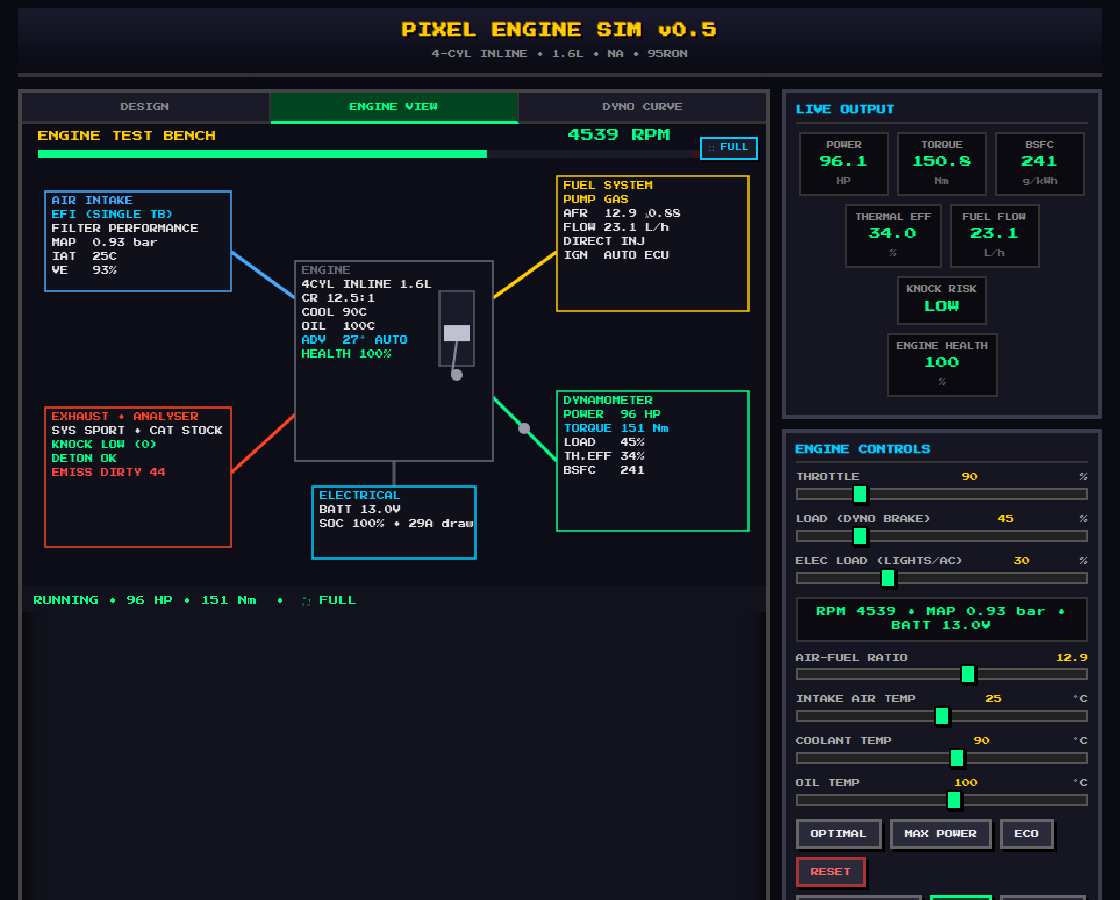
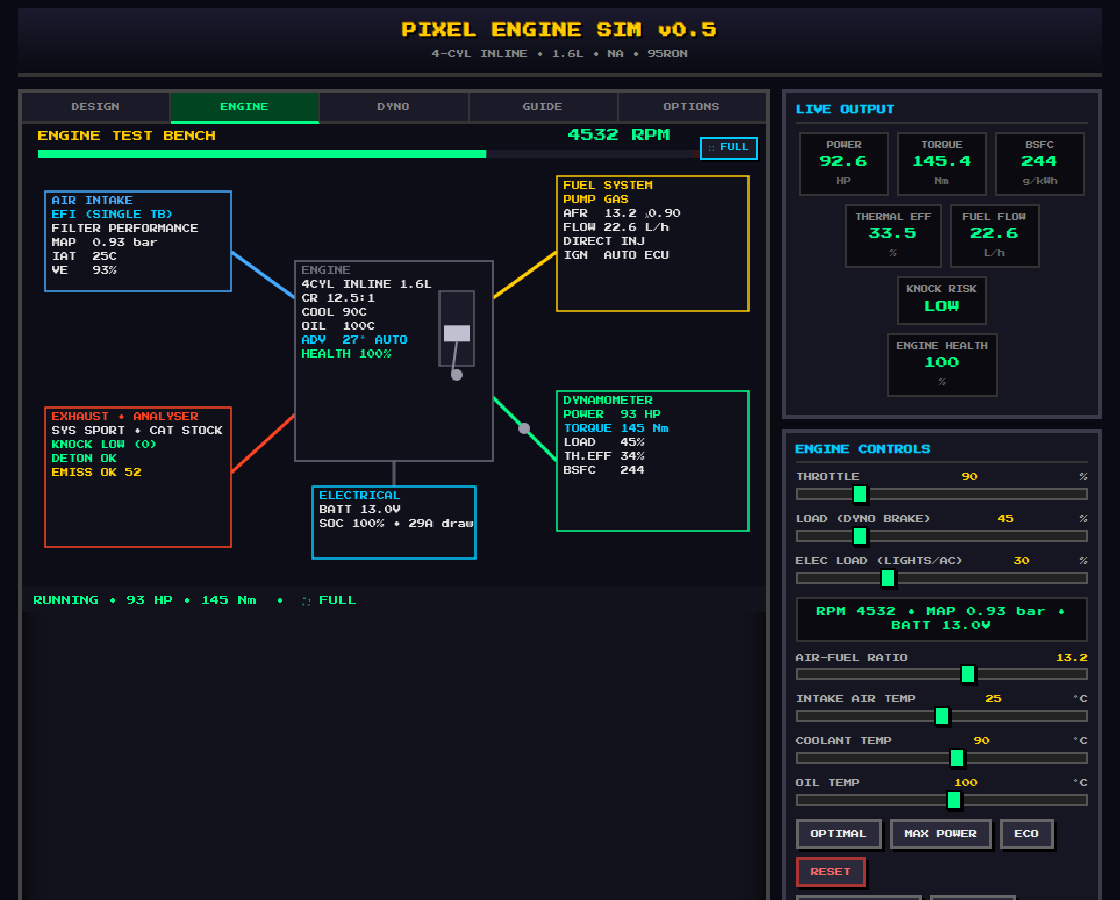
UI round: intercooler sizes, in-app Guide & Options tabs, tab-aware side panel (#18)
Intercooler sizing:
- Replace the intercooler yes/no toggle with a core-size dropdown
  (none / small / large). A bigger core removes more charge heat (denser
  air, more knock margin, more power) but its extra volume adds a little
  turbo spool lag. Legacy boolean builds migrate (true->large, false->none).

UI restructure:
- Add a GUIDE tab: an in-app manual explaining the loop, driving controls,
  every on-screen metric and each design subsystem. Kept in-app so the
  offline PWA stays self-contained (no external wiki).
- Add an OPTIONS tab for simulator preferences: Sound and Wear toggles
  (moved out of the crowded Engine Controls, now with clear ON/OFF labels)
  plus a Language-pack selector placeholder for future localisation.
- Make the right column tab-aware: the runtime Engine Controls show only
  while driving / on the dyno; the DESIGN tab shows a Vehicle Designer
  "coming soon" placeholder in that space (reserving room for feature A).
- Declutter the remaining Engine Controls button rows and tighten the
  tab bar to fit five tabs.

Tests (Playwright, zero console errors), README and screenshots updated.

Claude-Session: https://claude.ai/code/session_01AEJgmuJne9ALT6jCcxozCn

diff --git a/index.html b/index.html
@@ -79,6 +79,20 @@ footer{text-align:center;margin-top:16px;padding:8px;font-size:7px;color:#555;bo
 .build-row{margin-top:12px;display:flex;gap:8px;flex-wrap:wrap}
 .build-row button{flex:1}
 #btnBuild{border-color:#00ff88;color:#00ff88}
+/* 5 tabs — tighten padding so labels fit */
+.viz-tabs button{padding:10px 4px;font-size:7.5px;letter-spacing:0}
+/* ---- Guide & Options tabs (reuse the scrollable design-panel shell) ---- */
+.guide-body{font-size:8px;color:#b8c4d0;line-height:1.9;margin-bottom:4px}
+.guide-body b{color:#ffcc00}
+.guide-body i{color:#00ccff;font-style:normal}
+.opt-row{display:flex;align-items:center;justify-content:space-between;gap:10px;padding:8px 0;border-bottom:2px solid #17172a}
+.opt-row>div{flex:1}
+.opt-row b{font-size:8px;color:#e0e0e0}
+.opt-note{font-size:7px;color:#778;line-height:1.5;margin-top:4px}
+.opt-row button,.opt-select{flex:0 0 auto;min-width:96px}
+.opt-select{font-family:'Press Start 2P',monospace;font-size:8px;padding:8px;background:#12121c;color:#00ff88;border:2px solid #555}
+.vehicle-soon{font-size:8px;color:#aab;line-height:1.8;padding:6px 2px}
+.vehicle-soon b{color:#ffcc00}
 </style>
 </head>
 <body>
@@ -91,8 +105,10 @@ footer{text-align:center;margin-top:16px;padding:8px;font-size:7px;color:#555;bo
 <div class="viz-panel">
 <div class="viz-tabs">
 <button id="tabDesign">DESIGN</button>
-<button id="tabEngine" class="active">ENGINE VIEW</button>
-<button id="tabDyno">DYNO CURVE</button>
+<button id="tabEngine" class="active">ENGINE</button>
+<button id="tabDyno">DYNO</button>
+<button id="tabGuide">GUIDE</button>
+<button id="tabOptions">OPTIONS</button>
 </div>
 <button id="btnFullscreen" class="fs-btn" title="Full-screen detailed view" aria-label="Full-screen detailed view">⛶ FULL</button>
 <canvas id="engineCanvas" width="640" height="420" role="img" aria-label="Engine test-bench schematic with live values"></canvas>
@@ -116,7 +132,7 @@ footer{text-align:center;margin-top:16px;padding:8px;font-size:7px;color:#555;bo
 <div class="design-grid">
 <div class="field"><label for="edIntake">INTAKE TYPE</label><select id="edIntake"><option value="na">NATURALLY ASP.</option><option value="turbo">TURBO</option><option value="supercharger">SUPERCHARGER</option></select></div>
 <div class="field"><label for="edBoost">BOOST TARGET (bar)</label><input type="number" id="edBoost" min="0" max="2.5" step="0.05" value="0"></div>
-<div class="field"><label for="edIntercooler">INTERCOOLER</label><select id="edIntercooler"><option value="yes">YES</option><option value="no">NO</option></select></div>
+<div class="field"><label for="edIntercooler">INTERCOOLER</label><select id="edIntercooler"><option value="none">NONE</option><option value="small">SMALL CORE</option><option value="large">LARGE CORE</option></select></div>
 <div class="field"><label for="edTurboSize">TURBO SIZE</label><select id="edTurboSize"><option value="small">SMALL</option><option value="medium">MEDIUM</option><option value="large">LARGE</option></select></div>
 <div class="field"><label for="edTurboConfig">TURBO CONFIG</label><select id="edTurboConfig"><option value="single">SINGLE</option><option value="twin">TWIN</option><option value="sequential">SEQUENTIAL</option><option value="compound">COMPOUND</option></select></div>
 <div class="field"><label for="edAntilag">ANTI-LAG (ALS)</label><select id="edAntilag"><option value="no">NO</option><option value="yes">YES</option></select></div>
@@ -175,6 +191,92 @@ footer{text-align:center;margin-top:16px;padding:8px;font-size:7px;color:#555;bo
 <button id="btnDesignReset" class="danger">DEFAULTS</button>
 </div>
 </div>
+
+<!-- GUIDE: in-app documentation (kept in-app so the offline PWA stays self-contained) -->
+<div class="design-panel guide-panel" id="guidePanel">
+<h3>GUIDE • HOW IT WORKS</h3>
+<div class="hint">A quick manual for the sim and its numbers. Design → BUILD &amp; DYNO → drive it.</div>
+
+<div class="design-section">The Loop</div>
+<div class="guide-body">
+<b>1. DESIGN</b> an engine (bottom end, air path, fuel &amp; spark, cooling…), then press
+<b>BUILD &amp; DYNO</b>. <b>2. DYNO</b> reads the full power/torque curve and a graded scorecard.
+<b>3. ENGINE</b> is a live test bench: you set <b>THROTTLE</b> and <b>LOAD</b> and watch the
+engine respond in real time. You never set RPM directly — you drive it.
+</div>
+
+<div class="design-section">Driving Controls</div>
+<div class="guide-body">
+<b>THROTTLE</b> — opens the intake; raises manifold pressure → torque → revs.<br>
+<b>LOAD (dyno brake)</b> — resistance that sets the <i>hold RPM</i>. 0% = free-rev to the
+limiter; 100% = holds near idle. It only resists <i>above</i> its target, so any engine can
+always rev up to it.<br>
+<b>ELEC LOAD</b> — accessory draw (lights/AC). Heavy load + small alternator at idle drains
+the battery → low voltage → weak spark.<br>
+<b>AFR</b> — air-fuel ratio. Peak power near λ0.86 (rich), best economy near λ1.05 (lean).<br>
+<b>IAT / COOLANT / OIL</b> — charge &amp; engine temps (auto in AUTO THERMAL mode).<br>
+<b>NITROUS</b> — if fitted, sprays at wide-open throttle from a bottle that depletes.
+</div>
+
+<div class="design-section">Reading the Numbers</div>
+<div class="guide-body">
+<b>HP / kW</b> — power = torque × rpm. <b>TORQUE (Nm)</b> — twisting force; peaks lower than power.<br>
+<b>BMEP (bar)</b> — brake mean effective pressure: torque normalised to displacement, so you can
+compare engines of any size. <b>VE (%)</b> — volumetric efficiency: how well the engine breathes
+vs its swept volume (boost can exceed 100%).<br>
+<b>THERMAL EFF (%)</b> — share of fuel energy turned into work. <b>BSFC (g/kWh)</b> — fuel burned
+per unit power; <i>lower is better</i> (best around stoich, part-load).<br>
+<b>FUEL FLOW (L/h)</b> — live consumption. <b>MAP / BOOST (bar)</b> — manifold pressure; boost is
+MAP above 1.0.<br>
+<b>KNOCK (LOW/MED/HIGH)</b> — detonation risk. AUTO timing retards to control it; sustained HIGH
+does damage. <b>HEALTH (%)</b> — condition; falls under abuse, and 0 = a blown engine (rebuild).<br>
+<b>EMISSIONS (CLEAN/OK/DIRTY)</b> — from the exhaust analyser: CO &amp; HC climb rich, NOx climbs
+lean/hot; a catalytic converter only cleans all three near stoich.<br>
+<b>λ (lambda)</b> — AFR ÷ the fuel's stoichiometric AFR: λ&lt;1 rich, 1 = stoich, &gt;1 lean.
+</div>
+
+<div class="design-section">The Scorecard</div>
+<div class="guide-body">
+Every build is graded <b>S → F</b> from six things: specific <b>power</b> &amp; <b>torque</b>
+(per litre), power<b>band</b> width, thermal <b>eff</b>iciency, knock <b>safety</b>,
+<b>drive</b>ability (low-end torque) and <b>emit</b> (emissions). Chasing peak power usually
+costs drivability, safety and emissions — the score rewards a balanced build.
+</div>
+
+<div class="design-section">Design Subsystems</div>
+<div class="guide-body">
+<b>Bottom end</b> — bore × stroke × cylinders = displacement; oversquare &amp; higher redline shift
+the powerband up.<br>
+<b>Air path</b> — turbo (spools with rpm; size/config trade lag vs top-end) or supercharger (boost
+from idle); intercooler size cools the charge (denser, less knock) with a little lag; exhaust and
+catalytic converter trade flow vs back-pressure/emissions; nitrous is bottled power.<br>
+<b>Induction</b> — carbs → EFI → ITBs set breathing, metering precision and idle quality.<br>
+<b>Valvetrain</b> — wilder cams move power up top &amp; idle lumpy; VVT restores the bottom end.<br>
+<b>Fuel &amp; spark</b> — fuel type, octane, injector, ignition type and FIXED vs AUTO (ECU) timing.<br>
+<b>Cooling &amp; electrical</b> — radiator/fan/oil-cooler/thermostat set temps; alternator size and
+ignition type set charging and the misfire RPM limit.
+</div>
+<div class="guide-body" style="color:#667;margin-top:12px">Tip: turn WEAR off in OPTIONS to
+experiment freely, then back on for consequences.</div>
+</div>
+
+<!-- OPTIONS: sim preferences (sound, wear, language) -->
+<div class="design-panel options-panel" id="optionsPanel">
+<h3>OPTIONS</h3>
+<div class="hint">Simulator preferences. These don't change the engine build.</div>
+
+<div class="design-section">Audio</div>
+<div class="opt-row"><div><b>ENGINE SOUND</b><div class="opt-note">Web Audio engine note (pitched to firing frequency; lumpy idle from wild cams).</div></div>
+<button id="btnSound" class="toggle" aria-pressed="false">SOUND OFF</button></div>
+
+<div class="design-section">Simulation</div>
+<div class="opt-row"><div><b>WEAR &amp; DAMAGE</b><div class="opt-note">On: detonation/overheat/lean-boost/over-rev damage the engine. Off: invincible, for free experimentation.</div></div>
+<button id="btnWear" class="toggle on" aria-pressed="true">WEAR ON</button></div>
+
+<div class="design-section">Language</div>
+<div class="opt-row"><div><b>LANGUAGE PACK</b><div class="opt-note">More language packs are planned. English only for now.</div></div>
+<select id="edLang" class="opt-select"><option value="en">ENGLISH</option><option value="soon" disabled>MORE COMING…</option></select></div>
+</div>
 </div>
 <div class="side-panel">
 <div class="panel">
@@ -193,7 +295,7 @@ footer{text-align:center;margin-top:16px;padding:8px;font-size:7px;color:#555;bo
 <div class="stat" id="statHealth"><span class="label">ENGINE HEALTH</span><div class="value">100</div><span class="unit">%</span></div>
 </div>
 </div>
-<div class="panel">
+<div class="panel" id="controlsPanel">
 <h2>Engine Controls</h2>
 <div class="control-group"><label for="throttle">THROTTLE <span class="val" id="valThrottle">20</span> %</label><input type="range" id="throttle" min="0" max="100" step="1" value="20" aria-label="Throttle pedal position percent"></div>
 <div class="control-group"><label for="load">LOAD (DYNO BRAKE) <span class="val" id="valLoad">20</span> %</label><input type="range" id="load" min="0" max="100" step="1" value="20" aria-label="Applied dyno brake load percent"></div>
@@ -211,22 +313,29 @@ footer{text-align:center;margin-top:16px;padding:8px;font-size:7px;color:#555;bo
 </div>
 <div class="btn-row">
 <button id="btnAutoThermal" class="toggle" aria-pressed="false">AUTO THERMAL</button>
-<button id="btnWear" class="toggle on" aria-pressed="true">WEAR</button>
 <button id="btnNitrous" class="toggle" aria-pressed="false" disabled>NITROUS</button>
-<button id="btnSound" class="toggle" aria-pressed="false">SOUND</button>
-<button id="btnSave">SAVE</button>
-<button id="btnLoad">LOAD</button>
 </div>
 <div class="btn-row">
+<button id="btnLogPull">LOG PULL</button>
+<button id="btnClearPulls">CLR PULLS</button>
+</div>
+<div class="btn-row" style="border-top:2px solid #26263a;padding-top:8px">
+<button id="btnSave">SAVE</button>
+<button id="btnLoad">LOAD</button>
 <button id="btnExport">SAVE FILE</button>
 <button id="btnImport">OPEN FILE</button>
 <button id="btnShare">SHARE</button>
-<button id="btnLogPull">LOG PULL</button>
-<button id="btnClearPulls">CLR PULLS</button>
 </div>
 <input type="file" id="fileInput" accept="application/json,.json" style="display:none">
 <div class="status-bar" id="status">READY • DESIGN AN ENGINE • THEN DYNO IT</div>
 <div class="legend" id="legend">Use the DESIGN tab to build your engine, then tune it here.</div>
+</div>
+<div class="panel" id="vehiclePanel" style="display:none">
+<h2>Vehicle Designer</h2>
+<div class="vehicle-soon">🏎 <b>Coming soon</b> — feature A on the roadmap.<br><br>
+This is where you'll drop the engine into a car: gearbox ratios, weight, tyre grip and aero
+drag, then run <b>0–60</b>, the <b>¼-mile</b> and <b>top speed</b> off the same dynamic model.
+<br><br><span style="color:#667">For now, design the engine and read it on the dyno.</span></div>
 </div>
 </div>
 </div>
@@ -285,7 +394,7 @@ const AIR_FILTER={
 // coil-on-plug with ECU knock-limited timing).
 const DEFAULT_ENGINE={
   cylinders:4,bore_mm:81,stroke_mm:78,compression:12.5,layout:'inline',redline:7200,
-  intake:'na',boost_bar:0,intercooler:true,turboSize:'medium',turboConfig:'single',scType:'roots',antilag:false,nitrous:'none',exhaust:'sport',cat:'stock',
+  intake:'na',boost_bar:0,intercooler:'large',turboSize:'medium',turboConfig:'single',scType:'roots',antilag:false,nitrous:'none',exhaust:'sport',cat:'stock',
   intakeSys:'efi',airFilter:'perf',
   cam:'stock',vvt:true,
   fuel:'gasoline',octane:95,injector:'direct',ignitionAdv:22,ignitionType:'coil',timingMode:'auto',
@@ -347,6 +456,14 @@ const SC_TYPE={
   centrifugal:{label:'CENTRIFUGAL',lo:0.04,hi:1.00,exp:2,drag:0.80}
 };
 const NITROUS_BAR={none:0,small:2.2,large:4.2};   // extra IMEP (bar) from a nitrous shot
+// Intercooler core: heat = residual charge-heat added per bar of boost (°C). A bigger core
+// cools the charge far better (denser air, more knock margin) but its extra volume adds a
+// little turbo spool lag (more plumbing to pressurise). None = no intercooler.
+const INTERCOOLER={
+  none: {label:'NONE',      heat:25,lag:0.00},
+  small:{label:'SMALL CORE',heat:11,lag:0.05},
+  large:{label:'LARGE CORE',heat:5, lag:0.12}
+};
 // Catalytic converter: a three-way cat only cleans efficiently in a narrow window around
 // stoich. conv = peak conversion efficiency; restrict = exhaust back-pressure (a small
 // top-end VE loss, like an extra air filter). A modern engine uses a stock (high-flow-
@@ -391,7 +508,7 @@ function readEngineFromForm(){
     redline:clamp(Math.round(+g('edRedline').value||7000),5000,9500),
     intake,
     boost_bar:intake==='na'?0:clamp(+g('edBoost').value||0,0,2.5),
-    intercooler:g('edIntercooler').value==='yes',
+    intercooler:g('edIntercooler').value,
     turboSize:g('edTurboSize').value,
     turboConfig:g('edTurboConfig').value,
     antilag:g('edAntilag').value==='yes',
@@ -420,7 +537,9 @@ function applyEngineToForm(e){
   const g=id=>document.getElementById(id);
   g('edCyl').value=e.cylinders;g('edLayout').value=e.layout;g('edBore').value=e.bore_mm;
   g('edStroke').value=e.stroke_mm;g('edCR').value=e.compression;g('edRedline').value=e.redline;
-  g('edIntake').value=e.intake;g('edBoost').value=e.boost_bar;g('edIntercooler').value=e.intercooler?'yes':'no';
+  // Migrate legacy boolean intercooler (true→large, false→none) from older saved builds.
+  g('edIntake').value=e.intake;g('edBoost').value=e.boost_bar;
+  g('edIntercooler').value=(e.intercooler===true?'large':e.intercooler===false?'none':(e.intercooler||'large'));
   g('edTurboSize').value=e.turboSize||'medium';
   g('edTurboConfig').value=e.turboConfig||'single';g('edAntilag').value=e.antilag?'yes':'no';
   g('edScType').value=e.scType||'roots';g('edNitrous').value=e.nitrous||'none';
@@ -501,14 +620,17 @@ function buildEngine(){
   engine.strokeFrictionMult=1+(engine.stroke_mm-86)/320;  // longer stroke = more friction
   engine.maxBoost=engine.intake==='na'?0:engine.boost_bar;
   engine.mapMax=engine.intake==='na'?1.05:1.0+engine.maxBoost;
+  // Intercooler core: charge-heat residual (feeds effIAT) and its spool-lag penalty.
+  const ic=INTERCOOLER[engine.intercooler]||INTERCOOLER.large;
+  engine.icHeat=ic.heat;engine.icLag=ic.lag;
   // Turbo spool characteristics scaled to redline, then modified by the turbo config
-  // (twin/sequential/compound) and anti-lag (keeps it spooled — earlier, faster).
+  // (twin/sequential/compound), anti-lag (keeps it spooled) and intercooler volume (lag).
   const tb=TURBO[engine.turboSize]||TURBO.medium, cfg=TURBO_CONFIG[engine.turboConfig]||TURBO_CONFIG.single;
   const als=engine.antilag?0.62:1.0, alsK=engine.antilag?1.5:1.0;
   engine.spool50=tb.spool50*cfg.spool*als*engine.redline;
   engine.spoolWidth=tb.width*cfg.width*engine.redline;
   engine.turboChoke=tb.choke*cfg.choke;
-  engine.spoolK=tb.k*cfg.k*alsK;
+  engine.spoolK=tb.k*cfg.k*alsK*(engine.intake==='turbo'?(1-engine.icLag):1);
   engine.nitrousBar=NITROUS_BAR[engine.nitrous]||0;
   state.boostActual=0;state.nitrousActive=false;state.nitrousCharge=1.0;   // fresh tanks
   state.engineHealth=1.0;state.blown=false;state.wearCause='';   // a fresh (rebuilt) engine
@@ -566,10 +688,11 @@ function updateDesignSummary(){
   const specific=(engine.displacement_L>0? (state.powerHP/engine.displacement_L):0).toFixed(0);
   const note=engine.layout!=='inline'?'<br><span style="color:#886">Note: '+LAYOUT_LABEL[engine.layout]+' bank visuals are simplified for now.</span>':'';
   let induction;
+  const icTxt=engine.intercooler==='none'?' (no IC)':' ('+(engine.intercooler==='large'?'LG':'SM')+' IC)';
   if(engine.intake==='na')induction='Naturally aspirated';
   else if(engine.intake==='turbo')
-    induction=TURBO_CONFIG[engine.turboConfig].label+' TURBO ('+engine.turboSize.toUpperCase()+')'+(engine.antilag?' +ALS':'')+' @ '+engine.boost_bar.toFixed(2)+' bar'+(engine.intercooler?' (IC)':' (no IC)')+', 50% boost @ '+Math.round(engine.spool50)+' rpm';
-  else induction=SC_TYPE[engine.scType].label+' S/C @ '+engine.boost_bar.toFixed(2)+' bar'+(engine.intercooler?' (IC)':' (no IC)');
+    induction=TURBO_CONFIG[engine.turboConfig].label+' TURBO ('+engine.turboSize.toUpperCase()+')'+(engine.antilag?' +ALS':'')+' @ '+engine.boost_bar.toFixed(2)+' bar'+icTxt+', 50% boost @ '+Math.round(engine.spool50)+' rpm';
+  else induction=SC_TYPE[engine.scType].label+' S/C @ '+engine.boost_bar.toFixed(2)+' bar'+icTxt;
   if(engine.nitrous!=='none')induction+=' • <span style="color:#ff66cc">'+(engine.nitrous==='large'?'BIG':'SMALL')+' NITROUS</span>';
   document.getElementById('designSummary').innerHTML=
     '<b>'+engine.cylinders+' × '+engine.bore_mm+'×'+engine.stroke_mm+'mm</b> → <b>'+disp+' L</b> '+LAYOUT_LABEL[engine.layout]+
@@ -621,7 +744,7 @@ function effIAT(map){
   let t=state.iat;
   if(engine.intake!=='na'){
     const boost=Math.max(0,map-1.0);
-    t+=boost*(engine.intercooler?6:25);
+    t+=boost*(engine.icHeat!=null?engine.icHeat:25);
   }
   t-=engine.chargeCool*(engine.injector==='direct'?1.15:1.0);   // DI cools the charge slightly more
   return t;
@@ -983,7 +1106,7 @@ function setSound(on){
   if(on){initSound();if(Sound.ctx&&Sound.ctx.state==='suspended')Sound.ctx.resume();}
   else if(Sound.ctx)Sound.gain.gain.setTargetAtTime(0,Sound.ctx.currentTime,0.05);
   const btn=document.getElementById('btnSound');
-  btn.classList.toggle('on',on);btn.setAttribute('aria-pressed',on);
+  btn.classList.toggle('on',on);btn.setAttribute('aria-pressed',on);btn.textContent=on?'SOUND ON':'SOUND OFF';
 }
 
 // ---- Save / load full builds (localStorage) ----
@@ -1372,11 +1495,19 @@ function updateUI(){
 
 function setTab(mode){
   vizMode=mode;
-  document.getElementById('tabDesign').classList.toggle('active',mode==='design');
-  document.getElementById('tabEngine').classList.toggle('active',mode==='engine');
-  document.getElementById('tabDyno').classList.toggle('active',mode==='dyno');
-  canvas.style.display=mode==='design'?'none':'block';
+  ['Design','Engine','Dyno','Guide','Options'].forEach(m=>
+    document.getElementById('tab'+m).classList.toggle('active',mode===m.toLowerCase()));
+  // DESIGN / GUIDE / OPTIONS are full-panel overlays that replace the canvas.
+  const overlay=mode==='design'||mode==='guide'||mode==='options';
+  canvas.style.display=overlay?'none':'block';
+  document.getElementById('btnFullscreen').style.display=overlay?'none':'block';
   document.getElementById('designPanel').classList.toggle('active',mode==='design');
+  document.getElementById('guidePanel').classList.toggle('active',mode==='guide');
+  document.getElementById('optionsPanel').classList.toggle('active',mode==='options');
+  // Right column: runtime Engine Controls only while driving/dyno; the Vehicle Designer
+  // placeholder takes their space on the DESIGN tab.
+  document.getElementById('controlsPanel').style.display=(mode==='engine'||mode==='dyno')?'':'none';
+  document.getElementById('vehiclePanel').style.display=(mode==='design')?'':'none';
   updateUI();
 }
 
@@ -1405,7 +1536,7 @@ function bindControls(){
   document.getElementById('btnWear').addEventListener('click',()=>{
     wearEnabled=!wearEnabled;
     const b=document.getElementById('btnWear');
-    b.classList.toggle('on',wearEnabled);b.setAttribute('aria-pressed',wearEnabled);
+    b.classList.toggle('on',wearEnabled);b.setAttribute('aria-pressed',wearEnabled);b.textContent=wearEnabled?'WEAR ON':'WEAR OFF';
     flash(wearEnabled?'WEAR ON • ENGINE CAN BE DAMAGED':'WEAR OFF • ENGINE INVINCIBLE');
   });
   document.getElementById('btnNitrous').addEventListener('click',()=>{
@@ -1428,6 +1559,8 @@ function bindControls(){
   document.getElementById('tabDesign').addEventListener('click',()=>setTab('design'));
   document.getElementById('tabEngine').addEventListener('click',()=>setTab('engine'));
   document.getElementById('tabDyno').addEventListener('click',()=>setTab('dyno'));
+  document.getElementById('tabGuide').addEventListener('click',()=>setTab('guide'));
+  document.getElementById('tabOptions').addEventListener('click',()=>setTab('options'));
 
   const vizPanel=document.querySelector('.viz-panel');
   document.getElementById('btnFullscreen').addEventListener('click',()=>{
@@ -1436,7 +1569,8 @@ function bindControls(){
   });
   document.addEventListener('fullscreenchange',()=>{
     fullscreen=!!document.fullscreenElement;
-    if(fullscreen){canvas.width=1280;canvas.height=800;canvas.style.display='block';document.getElementById('designPanel').classList.remove('active');}
+    if(fullscreen){canvas.width=1280;canvas.height=800;canvas.style.display='block';
+      ['designPanel','guidePanel','optionsPanel'].forEach(id=>document.getElementById(id).classList.remove('active'));}
     else{canvas.width=640;canvas.height=420;setTab(vizMode);}
   });
 

diff --git a/README.md b/README.md
@@ -17,7 +17,8 @@ screamer, 2JZ six, muscle V8, blown V8, V12 supercar…), or configure your own 
 
 - **Bottom end** — cylinder count (1–12), layout (inline / V / boxer), bore, stroke,
   compression ratio, redline. Bore × stroke × cylinders sets the displacement.
-- **Air path** — naturally aspirated / turbo / supercharger, boost target, intercooler,
+- **Air path** — naturally aspirated / turbo / supercharger, boost target, **intercooler size**
+  (none / small / large core — a bigger core cools the charge more but adds a little spool lag),
   turbo size, **turbo configuration** (single / twin / sequential / compound), **anti-lag**,
   **supercharger type** (roots / twin-screw / centrifugal), **nitrous** (small / big shot),
   exhaust (stock / sport / race) and a **catalytic converter** (none/decat / sport / stock).
@@ -61,11 +62,19 @@ saps power; a large radiator, electric fan and oil cooler keep it cool.
 ### Simulation & live tuning
 - **Live outputs**: Power (HP), Torque (Nm), BMEP, Volumetric Efficiency, Thermal
   Efficiency, BSFC, Fuel Flow, Knock Risk, Engine Health.
+- **Five tabs** — **DESIGN** (build the engine), **ENGINE** (live test-bench schematic),
+  **DYNO** (power/torque curve + scorecard), **GUIDE** (an in-app manual explaining every
+  control and metric) and **OPTIONS** (sound, wear and future language packs). The right column
+  is context-aware: the runtime Engine Controls show while driving/on the dyno, and the DESIGN
+  tab reserves that space for the upcoming **Vehicle Designer**.
 - **Engine-view schematic** — a test-bench diagram (air intake, fuel system, engine,
   exhaust/analyser, dynamometer, electrical) with live values on every subsystem, instead of
   a too-fast animation. The **exhaust/analyser** box reads live **emissions** (a CLEAN/OK/DIRTY
   rating, with CO/HC/NOx in the detailed view) like the bench gas analyser it's modelled on. A
   **⛶ FULL** button opens a full-screen detailed view with extra readouts.
+- **In-app GUIDE** — a built-in manual (kept in-app so the offline PWA stays self-contained)
+  that explains the loop, the driving controls, every metric on screen and each design
+  subsystem, so the numbers are never a mystery.
 - **Emissions** — engine-out CO / HC / NOx computed from the mixture (λ) and combustion
   temperature, then cleaned by the catalytic converter *only* in a narrow window around
   stoich: run rich and CO/HC spike (no O₂ to burn them); run lean and NOx slips past (a cat
@@ -101,6 +110,10 @@ saps power; a large radiator, electric fan and oil cooler keep it cool.
 - **Installable PWA**, self-hosted font, works fully offline.
 
 ![Dyno](docs/dyno.png)
+
+The built-in **GUIDE** tab explains every control and metric without leaving the app:
+
+![Guide](docs/guide.png)
 
 ## How to Run
 
@@ -152,8 +165,10 @@ Curve** tab remains a wide-open-throttle steady-state sweep for reading the full
   exhaust / 98 RON makes ~255 hp & ~350 Nm; a 2.0 NA ~130 hp), with only a gentle power
   drop from peak to redline.
 - Compression scales indicated work and efficiency via a relative Otto-cycle factor.
-- Forced induction raises achievable MAP; without an intercooler the charge heats up.
-  Superchargers cost parasitic drive power.
+- Forced induction raises achievable MAP and heats the charge; the intercooler size sets how
+  much of that heat is removed (a large core leaves the charge coolest — denser air, more knock
+  margin — but its extra plumbing volume adds a little turbo spool lag). Superchargers cost
+  parasitic drive power.
 - Turbo boost spools with RPM along a logistic curve: small turbos spool early (strong
   midrange) but choke the top end, large turbos lag down low but flow more up top. Actual
   boost also lags in time (turbo lag), so it builds over ~1 s in the live Engine View.
@@ -253,6 +268,9 @@ native Android build (parked).
 - [x] Save to / open from named files (with notes) and shareable build links
 - [x] Emissions (engine-out CO/HC/NOx + three-way catalytic converter) with a live analyser & score
 - [x] Character-driven engine note (lope/burble from cam, layout & anti-lag)
+- [x] Intercooler core sizing (none/small/large — charge cooling vs spool lag)
+- [x] In-app GUIDE tab (documentation) and OPTIONS tab (sound/wear/language); tab-aware side panel
+- [x] Vehicle Designer placeholder reserving space for the vehicle/drivetrain layer (feature A)
 - [x] Calibration pass for realistic power figures & curve shape (ongoing refinement)
 - [ ] Native Android build (wrap the PWA with Capacitor or a Trusted Web Activity)
 
